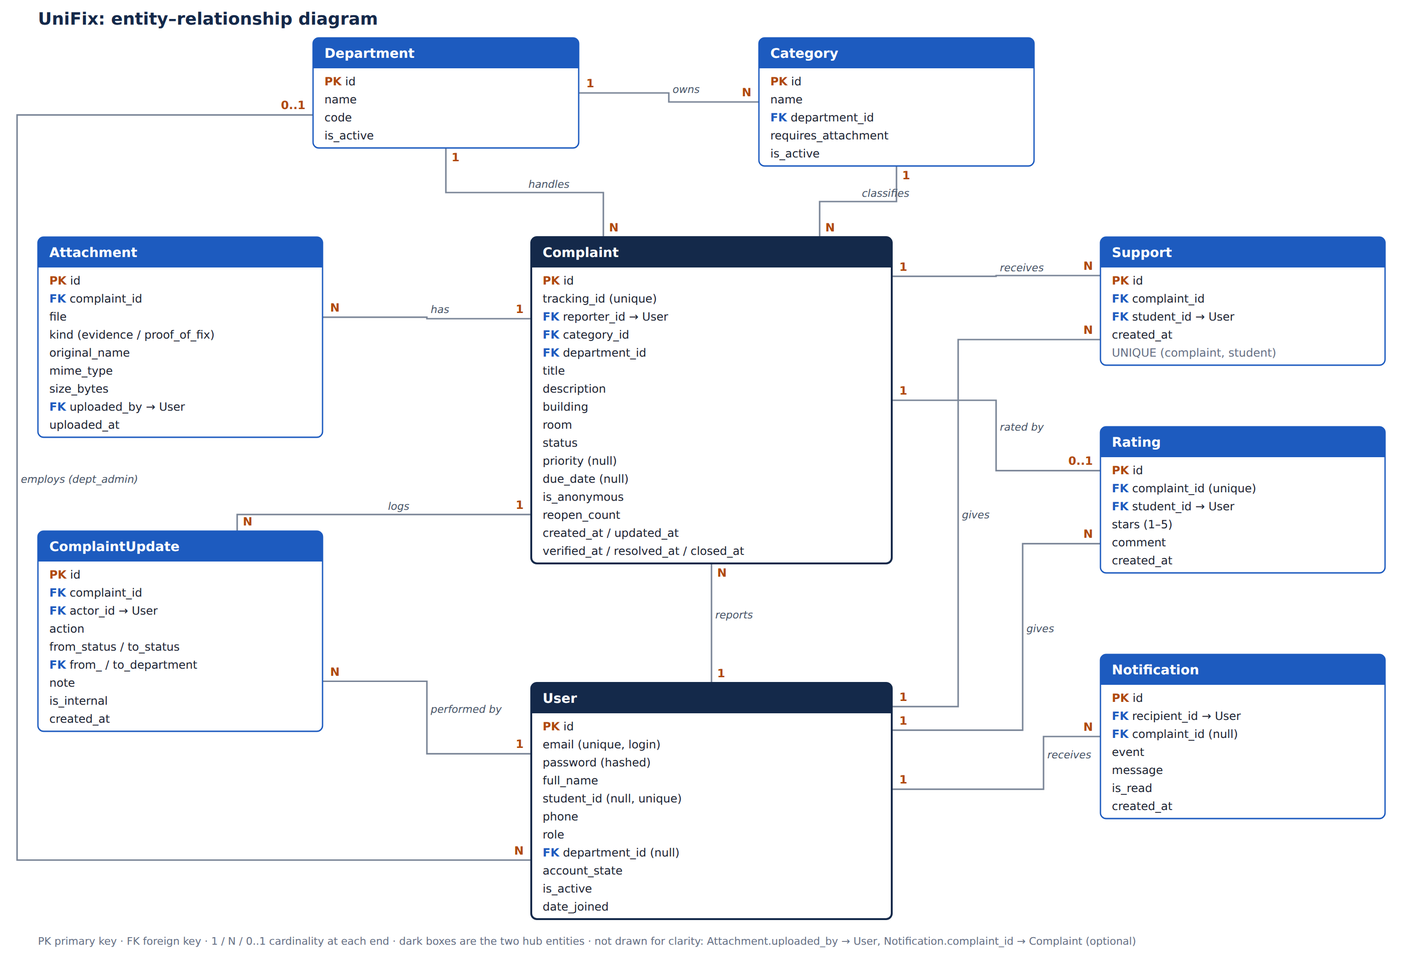
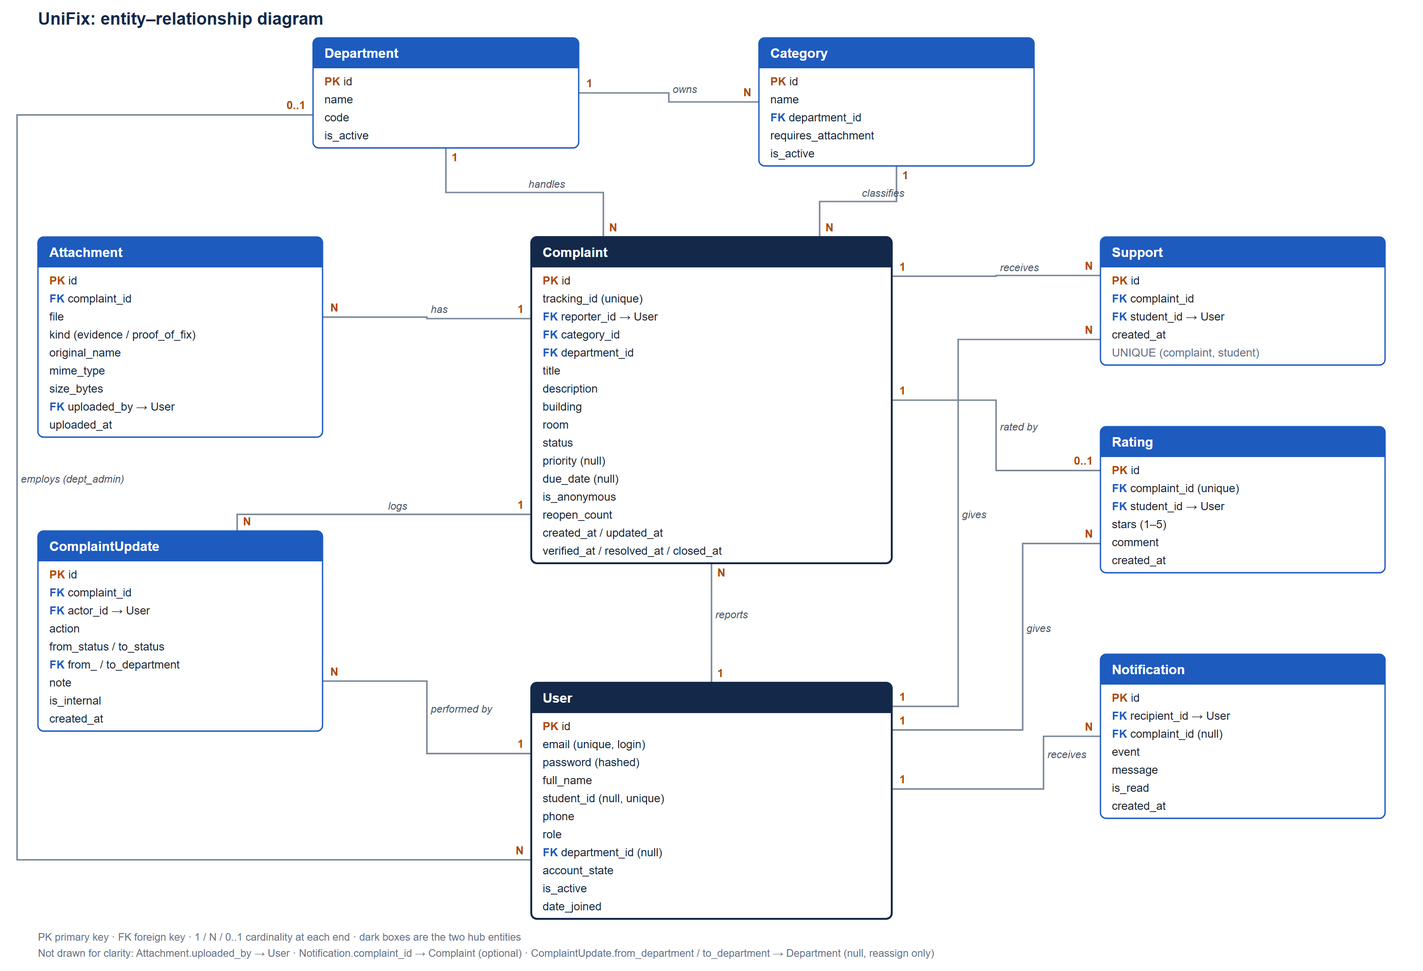
CR-09: Sprint 1 pre-build doc fixes
Applies the answers from the pre-build documentation review (FB-09),
logged as I-17 to I-30 in docs/09:
- C-15 Profile moved to Sprint 1, C-10 Withdraw to Sprint 3 (01, 09 V-13)
- User: username/first/last removed with custom UserManager; student_id
  stored as NULL when empty; super_admin gets is_staff/is_superuser;
  AllowAllUsersModelBackend for the "Account inactive" message (02, 05)
- Names added: accounts/permissions.py, seed_demo command path,
  template partials (05 §2, 04 layout)
- Full CSS token and class list in 05 §5-6; 00 no longer says the
  mockup CSS is reused as-is
- Super Admin sidebar gets Students; S-03 search includes room (04)
- room stores the label only; building labels; tracking ID from pk (05)
- ER footnote names the undrawn from/to_department FKs (06, diagrams)
- Version tag scheme v0.2-sprint1 ... v1.0 (07, 08)

diff --git a/docs/05_data_dictionary.md b/docs/05_data_dictionary.md
@@ -21,11 +21,15 @@ Source of truth for names. Code, templates and diagrams must match exactly.
 ```
 unifix/                 Django project settings and root urls
 accounts/               User model, login, register, profile, user records
+accounts/permissions.py Role mixins and decorators (the one place for permission checks)
 complaints/             Models: Department, Category, Complaint, Attachment, ComplaintUpdate, Support, Rating;
                         student-facing views (URL namespace `student`)
+complaints/management/commands/seed_demo.py
+                        Demo data command (`python manage.py seed_demo`)
 notifications/          Notification model and list view
 console/                Admin-side views (dashboard, queue, actions, students, users, reports)
 templates/              base.html, partials/, accounts/, student/, console/, notifications/
+templates/partials/     topbar.html, sidebar.html, messages.html, status_badge.html
 static/css/unifix.css   Single stylesheet (design tokens at the top)
 static/js/unifix.js     Small helpers only (form toggles, file previews, charts)
 media/                  Uploaded files (not committed to Git)
@@ -36,18 +40,21 @@ docs/                   These documents
 
 ### accounts.User (extends Django `AbstractUser`)
 
-Login uses email: `USERNAME_FIELD = "email"`; the inherited `username`, `first_name` and `last_name` are not used (`full_name` replaces them).
+Login uses email: `USERNAME_FIELD = "email"`, `REQUIRED_FIELDS = ["full_name"]`. The inherited `username`, `first_name` and `last_name` are removed (set to `None` on the model; `full_name` replaces them), so a custom `UserManager` creates users by email.
+
+Authentication uses Django's `AllowAllUsersModelBackend`; the login form's `confirm_login_allowed()` rejects suspended and deleted accounts with "Account inactive" (VR-11).
 
 | Field | Type | Rules |
 |---|---|---|
 | `email` | EmailField | Unique; login identifier; students must use `@northsouth.edu` |
 | `full_name` | CharField(120) | Required |
-| `student_id` | CharField(20) | Students only; unique when present |
+| `student_id` | CharField(20), null | Students only; unique when present; stored as NULL (not "") when empty (`null=True, blank=True, unique=True`) |
 | `phone` | CharField(20) | Optional |
 | `role` | CharField choices | `student`, `dept_admin`, `super_admin` |
 | `department` | FK → Department, null | Required for `dept_admin`; empty otherwise |
 | `account_state` | CharField choices | `active`, `suspended`, `deleted`; default `active` |
 | `is_active` | Boolean (built-in) | `False` when `account_state` is not `active` |
+| `is_staff`, `is_superuser` | Boolean (built-in) | `True` only for `super_admin` (Django admin access, C-16) |
 | `date_joined` | DateTime (built-in) | Auto |
 
 Methods: `is_student()`, `is_dept_admin()`, `is_super_admin()`, `can_view_complaint(complaint)`, `suspend()`, `reactivate()`, `soft_delete()`.
@@ -73,14 +80,14 @@ Methods: `is_student()`, `is_dept_admin()`, `is_super_admin()`, `can_view_compla
 
 | Field | Type | Rules |
 |---|---|---|
-| `tracking_id` | CharField(12) | Unique, generated `UF-0001` |
+| `tracking_id` | CharField(12) | Unique; `UF-` + primary key zero-padded to 4 digits (`UF-0001`) |
 | `reporter` | FK → User | Student who submitted |
 | `category` | FK → Category | |
 | `department` | FK → Department | Copied from category; changed only by reassign |
 | `title` | CharField(120) | Required |
 | `description` | TextField | Required |
-| `building` | CharField choices | `nac`, `sac`, `library`, `admin_building`, `plaza`, `other` |
-| `room` | CharField(30) | Optional (e.g. NAC 512) |
+| `building` | CharField choices | `nac` (NAC), `sac` (SAC), `library` (Library), `admin_building` (Admin Building), `plaza` (Plaza), `other` (Other) |
+| `room` | CharField(30) | Optional; room label only, without the building (e.g. `512`, `L3`). Pages show building label + room ("NAC 512"); reports group locations by building + room. |
 | `status` | CharField choices | See `03_workflow.md` §1 |
 | `priority` | CharField choices, null | `low`, `medium`, `high`; set on verify |
 | `due_date` | DateField, null | Set on verify; must be after today |
@@ -211,6 +218,20 @@ The Django admin panel stays at `/django-admin/` to avoid confusion with the con
 | withdrawn | `badge-withdrawn` | Grey outline |
 | overdue (flag) | `flag-overdue` | Red text |
 
+Priority text: `pri-high` (red), `pri-medium` (amber), `pri-low` (muted grey).
+
+**Component classes** (in `unifix.css`; mockup HTML uses shorter draft names):
+
+| Component | Classes |
+|---|---|
+| Layout | `topbar`, `sidebar`, `sidebar-label`, `sidebar-link`, `sidebar-link-active`, `main`, `breadcrumb`, `page-title`, `page-sub`, `row` |
+| Top bar | `brand`, `topbar-search`, `bell`, `bell-count`, `user-menu`, `avatar` |
+| Cards | `card`, `card-stat`, `stat-label`, `stat-value`, `stat-note` |
+| Buttons | `btn`, `btn-primary`, `btn-danger`, `btn-sm` (disabled buttons use the `disabled` attribute) |
+| Forms | `form-field`, `form-help`, `form-error` |
+| Messages | `alert-info`, `alert-success`, `alert-warning`, `alert-error` (Django message levels) |
+| Text | `text-muted`, `text-mono` |
+
 ## 6. Design Tokens (top of `unifix.css`)
 
 | Token | Value | Use |
@@ -219,9 +240,15 @@ The Django admin panel stays at `/django-admin/` to avoid confusion with the con
 | `--navy-2` | `#1d3a66` | Active sidebar item |
 | `--bg` | `#eef2f7` | Page background |
 | `--surface` | `#ffffff` | Cards, tables, forms |
+| `--border` | `#e1e4ea` | Card, table and input borders |
+| `--text` | `#1c2433` | Body text |
+| `--muted` | `#667085` | Secondary text, help text |
 | `--primary` | `#1d5bbf` | Primary buttons, links |
+| `--primary-soft` | `#e3ecfb` | Selected and info backgrounds |
 | `--danger` | `#c0352b` | Reject, reopen, overdue |
-| Card accents | blue, teal, amber, purple, green | Top border of dashboard stat cards |
+| `--ok` | `#1a7f4b` | Success messages, closed |
+| `--warn` | `#b26a00` | Warnings, medium priority |
+| Card accents | blue `#1d5bbf`, teal `#0d8a7a`, amber `#b26a00`, purple `#6b4fd8`, green `#1a7f4b` | Top border of dashboard stat cards |
 
 No animations, gradients or shadows beyond a 1 px card shadow.
 
@@ -235,3 +262,5 @@ No animations, gradients or shadows beyond a 1 px card shadow.
 | Security (`SEC`) | Lost access card (no), Safety hazard (yes) |
 
 Demo accounts: one Super Admin, one Dept Admin per department, about 10 students, and complaints in every status (including overdue and reopened examples).
+
+`seed_demo` grows by sprint: Sprint 1 seeds departments, categories and accounts; complaints are added in Sprints 2–3 as their models and actions are built.

diff --git a/docs/09_verification_report.md b/docs/09_verification_report.md
@@ -18,7 +18,7 @@ Purpose: confirm that requirements, workflow, screens, data dictionary, diagrams
 | V-10 | Mockups only show data and buttons allowed by the rules | Manual | Pass (after removing "View details" from S-02) |
 | V-11 | Every core feature traces to screens, rules, use cases and model elements | Traceability matrix (§3) | Pass |
 | V-12 | Workflow diagram, transitions table, state diagram and status list agree | Manual | Pass |
-| V-13 | Plan sprints cover every core feature | Manual | Pass (after adding C-18 to Sprint 4) |
+| V-13 | Plan sprints cover every core feature | Manual | Pass (after adding C-18 to Sprint 4, and C-15 to Sprint 1 and C-10 to Sprint 3 in CR-09) |
 
 ## 2. Issues Found and Fixed
 
@@ -40,6 +40,20 @@ Purpose: confirm that requirements, workflow, screens, data dictionary, diagrams
 | I-14 | C-18 (search) not assigned to any sprint or person | Low | Added to Sprint 4 and the work split | 01 |
 | I-15 | No seed data defined, though mockups and demo rely on it | Low | Seed departments, categories and demo accounts defined | 05 |
 | I-16 | Example ID `CR-06` in the GitHub section clashed with real CR numbering | Low | Changed to `CR-xx` | 08 |
+| I-17 | C-10 Withdraw and C-15 Profile had owners but no sprint; V-13 had been marked Pass | Medium | C-15 added to Sprint 1, C-10 to Sprint 3; V-13 note updated | 01, 09 |
+| I-18 | `seed_demo` was described as seeding complaints, which do not exist until Sprint 2 | Low | Seed grows by sprint: Sprint 1 departments, categories, accounts | 05 |
+| I-19 | Unclear whether inherited `username`, `first_name`, `last_name` are removed or left unused | Medium | Removed; custom `UserManager`; `REQUIRED_FIELDS = ["full_name"]` | 05 |
+| I-20 | No names for the permission module, seed command or template partials | Medium | Added `accounts/permissions.py`, `seed_demo.py` path, `partials/topbar.html`, `sidebar.html`, `messages.html`, `status_badge.html` | 04, 05 |
+| I-21 | Nobody was given access to the Django admin panel needed for C-16 | Medium | Super Admin accounts get `is_staff` and `is_superuser`; permissions matrix row added | 02, 05 |
+| I-22 | `student_id` "unique when present" would clash on blank values for admins | Medium | Stored as NULL when empty (`null=True, blank=True, unique=True`), matching the ER diagram | 05 |
+| I-23 | Mockup CSS is fixed-size (not responsive), lacks `badge-withdrawn`, repeats `:root`, and uses tokens and classes not in `05` | Medium | `05` §5–6 list all tokens, priority and component classes; `00` no longer says the mockup CSS is reused as-is | 00, 05 |
+| I-24 | Super Admin could see all students on A-04 but had no sidebar link to it | Low | Students added to the Super Admin sidebar | 04 |
+| I-25 | S-03 searched by title or tracking ID, but the Search table also matched room | Low | S-03 searches tracking ID, title or room | 04 |
+| I-26 | `room` examples repeated the building ("NAC 512"), clashing with the separate `building` field and hotspot grouping | Low | `room` stores the label only (`512`, `L3`); pages show building + room; hotspots group by building + room; building labels defined | 05 |
+| I-27 | ER diagram did not mention the undrawn `ComplaintUpdate.from_department` / `to_department` relationship | Low | Added to the figure footnote and the `06` caption | 06, diagrams |
+| I-28 | VR-11 asks for an "Account inactive" message, but Django's default backend shows a generic login error | Low | `AllowAllUsersModelBackend` with the check in `confirm_login_allowed()` | 05 |
+| I-29 | The notification bell's unread count depends on notifications, which are built in Sprint 3 | Low | Bell shown without a count until Sprint 3 | 04 |
+| I-30 | Tag scheme in `08` (`v0.1-iter1`) differed from the real tag (`v0.1.3-planning`); tracking ID generation unspecified | Low | Tag scheme defined (planning `v0.1.x`, sprints `v0.2-sprint1` … , final `v1.0`); tracking ID = `UF-` + zero-padded pk | 05, 07, 08 |
 
 ## 3. Traceability Matrix
 
@@ -67,7 +81,7 @@ Purpose: confirm that requirements, workflow, screens, data dictionary, diagrams
 ## 4. Remaining Open Items (decided later, not inconsistencies)
 
 - Keep-in-view items in `07_decision_log.md` (Super Admin fallback, soft delete, withdraw, rating, charts, search extension, header spacing, supporter notifications, due date after reopen).
-- 14 of 18 screens still need mockups (CR-03).
+- 14 of 18 screens still need mockups (CR-03). Existing mockups predate CR-09: the S-01/S-02 search placeholder omits room, the SA-01 sidebar has no Students link, and class names are draft names; they are refreshed when the remaining mockups are drawn.
 - Sprint dates depend on semester deadlines.
 - The submitted proposal (v2 PDF) predates these decisions and is superseded by this documentation set.
 - Course diagrams (use case, class, ER, sequence, activity) still to be drawn from `06`.
@@ -76,4 +90,4 @@ Purpose: confirm that requirements, workflow, screens, data dictionary, diagrams
 
 1. Run the automated checks (V-01 to V-05) with the verification script kept alongside these docs.
 2. Walk through the manual checks V-06 to V-13 for any section that changed.
-3. Log new issues here as I-17, I-18, … and link fixes to a CR in `08_iteration_log.md`.
+3. Log new issues here as I-31, I-32, … and link fixes to a CR in `08_iteration_log.md`.

diff --git a/docs/08_iteration_log.md b/docs/08_iteration_log.md
@@ -8,7 +8,7 @@ Tracks feedback and the changes it causes, iteration by iteration, so each phase
 2. **Each accepted change becomes a change request** (`CR-xx`) linked to the feedback and to the IDs it affects (C-xx, VR-xx, S-xx, UC-xx, model or field names).
 3. **Impact is checked before work starts.** If a CR touches a foundation file (03 or 05), it is flagged so the diagrams in 06 are updated too.
 4. **Status flow for each CR:** Proposed → Accepted / Deferred / Rejected → Done.
-5. **Each iteration ends with a version tag** in Git (`v0.1-iter1`, `v0.2-iter2`, …) and a summary of what changed.
+5. **Each iteration ends with a version tag** in Git and a summary of what changed. Planning iterations: `v0.1.x` (e.g. `v0.1.3-planning`). Code sprints: `v0.2-sprint1`, `v0.3-sprint2`, `v0.4-sprint3`, `v0.5-sprint4`. Final release: `v1.0`.
 
 ## 2. Versions
 
@@ -19,6 +19,12 @@ Tracks feedback and the changes it causes, iteration by iteration, so each phase
 | v0.1.1 | Planning v1.1 | Oct 2026 | Search scope, system workflow, palette, this log |
 | v0.1.2 | Planning v1.2 | Oct 2026 | Header spacing; full consistency verification and fixes |
 | v0.1.3 | Planning v1.3 | Oct 2026 | ER diagram drawn for database planning |
+| v0.1.4 | Planning v1.4 | Oct 2026 | Sprint 1 pre-build doc fixes (CR-09) |
+| v0.2-sprint1 | Sprint 1 | planned | Setup, accounts, roles, login/register, profile, Django admin, seed |
+| v0.3-sprint2 | Sprint 2 | planned | Complaint submission and student pages |
+| v0.4-sprint3 | Sprint 3 | planned | Admin console and full lifecycle |
+| v0.5-sprint4 | Sprint 4 | planned | Remaining core features |
+| v1.0 | Final release | planned | Tested, documented, demo-ready |
 
 ## 3. Feedback Register
 
@@ -32,6 +38,7 @@ Tracks feedback and the changes it causes, iteration by iteration, so each phase
 | FB-06 | Oct 2026 | Team | Top area of screens feels cluttered | CR-06 |
 | FB-07 | Oct 2026 | Team | Verify all documents are aligned before building | CR-07 |
 | FB-08 | Oct 2026 | Team | Plan the database visually before creating demo data | CR-08 |
+| FB-09 | Oct 2026 | Claude Code review | Pre-build review found gaps: sprint coverage, User model details, missing file names, CSS not reusable, sidebar, search fields, room format, ER footnote, tag scheme | CR-09 |
 
 ## 4. Change Requests
 
@@ -45,6 +52,7 @@ Tracks feedback and the changes it causes, iteration by iteration, so each phase
 | CR-06 | FB-06 | More spacing in top bar and page header | `unifix.css`, mockups | Done (keep in view) |
 | CR-07 | FB-07 | Consistency fixes from the verification pass | 01–06, mockups; see `09_verification_report.md` | Done (planning) |
 | CR-08 | FB-08 | ER diagram with keys and cardinalities, matching `05` §3 | `06` §3, `diagrams/er_diagram.*` | Done (planning) |
+| CR-09 | FB-09 | Sprint 1 pre-build doc fixes (`09` I-17 to I-30) | C-10, C-15, C-16, C-18, VR-11, S-03, `User`, `Complaint.room`, `Complaint.tracking_id`, `05` §2, §5–7, `06` §3, `diagrams/er_diagram.*` | Done (planning) |
 
 ## 5. Iteration Template
 
@@ -65,4 +73,4 @@ Retrospective: keep … / change …
 
 - One GitHub Issue per CR, titled `CR-xx: …`, labelled `feedback`, `foundation` (if 03/05 change) and the sprint.
 - Pull requests reference the CR (`Closes #12, CR-06`).
-- Tag each iteration (`git tag v0.2-iter2`) so any earlier version can be shown or restored.
+- Tag each iteration (`git tag v0.2-sprint1`) so any earlier version can be shown or restored.

diff --git a/docs/01_project_plan.md b/docs/01_project_plan.md
@@ -16,9 +16,9 @@ The foundation (workflow states and data dictionary) is fixed during the design 
 | P0. Proposal | Topic, scope, initial UI concepts | Approved proposal (done) |
 | P1. Requirements | Actors, features, rules, screen inventory | `02_requirements.md`, `04_screens.md`, SRS |
 | P2. Design | Use case, class, ER, sequence, activity, state diagrams; mockups; data dictionary | `05`, `06`, diagram files, mockups |
-| Sprint 1 | Project setup, custom User model, roles, login/register, departments and categories via Django admin, seed data | Users can log in by role |
+| Sprint 1 | Project setup, custom User model, roles, login/register, profile and password change (C-15), departments and categories via Django admin, seed data (departments, categories, users) | Users can log in by role |
 | Sprint 2 | Complaint submission with media, duplicate check and "Me too", routing, student pages (home, list, detail) | End-to-end student submission |
-| Sprint 3 | Admin console: queue, complaint detail with 5 action buttons, verification with due date, resolve with proof photo, history, notifications | Full complaint lifecycle |
+| Sprint 3 | Admin console: queue, complaint detail with 5 action buttons, verification with due date, resolve with proof photo, withdraw (C-10), history, notifications | Full complaint lifecycle |
 | Sprint 4 | Confirm/reopen, rating, student records, Super Admin (users, reassign, reports), dashboards, search | All core features |
 | P3. Testing and finalization | Test cases, bug fixes, demo script, final report, optional features if time allows | Final report and demo |
 

diff --git a/docs/04_screens.md b/docs/04_screens.md
@@ -2,13 +2,13 @@
 
 18 screens. Each lists what it shows, its buttons, and which data it reads (R) or writes (W). URL and template names follow `05_data_dictionary.md`.
 
-**Layout:** every signed-in page uses `base.html`: a top bar (logo, notification bell with unread count, user menu) and a role-specific left sidebar.
+**Layout:** every signed-in page uses `base.html` (with `partials/topbar.html`, `partials/sidebar.html`, `partials/messages.html`): a top bar (logo, search, notification bell with unread count, user menu) and a role-specific left sidebar. Until notifications are built (Sprint 3, C-11) the bell is shown without a count.
 
 | Sidebar | Links |
 |---|---|
 | Student | Home · New complaint · My complaints · Notifications · Profile |
 | Dept Admin | Dashboard · Complaint queue · Students · Notifications · Profile |
-| Super Admin | Dashboard · Complaint queue (all) · Reports · Users · Notifications · Profile |
+| Super Admin | Dashboard · Complaint queue (all) · Students · Reports · Users · Notifications · Profile |
 
 ## Search (top bar, every signed-in page)
 
@@ -62,7 +62,7 @@ Search reuses the existing list pages with a `?q=` parameter instead of adding n
 ### S-03 My complaints
 `student:complaint_list` · `student/complaint_list.html`
 
-- Shows: table of own complaints and supported complaints; filters by status; search by title or tracking ID.
+- Shows: table of own complaints and supported complaints; filters by status; search by tracking ID, title or room.
 - Buttons: row → S-04.
 - R: Complaint, Support.
 

diff --git a/docs/07_decision_log.md b/docs/07_decision_log.md
@@ -18,6 +18,9 @@
 | Oct 2026 | Complaint stores its own `department` | Allows Super Admin reassignment |
 | Oct 2026 | Supported complaints shown in a limited view (VR-01) | Privacy of the reporter; confirmed by team |
 | Oct 2026 | Reopened complaints keep the original due date | Simple; overdue stays visible; confirmed by team |
+| Oct 2026 | Super Admin accounts get Django admin access (`is_staff`, `is_superuser`) | One place to manage departments and categories (C-16) |
+| Oct 2026 | `room` stores the room label only; building comes from `building` | Avoids repeating the building; clean hotspot grouping |
+| Oct 2026 | Version tags: planning `v0.1.x`, sprints `v0.2-sprint1` … `v0.5-sprint4`, final `v1.0` | Tags line up with sprints |
 
 ## Keep in View
 
@@ -43,3 +46,4 @@ Instructor feedback and iteration changes are tracked in `08_iteration_log.md`.
 | Oct 2026 | v1.1: search scope (C-18, VR-14), system workflow diagram, colour palette, iteration log | 02, 03, 04, 05, 08 |
 | Oct 2026 | v1.2: header spacing; verification fixes (see `09_verification_report.md`) | 01–08 |
 | Oct 2026 | v1.3: ER diagram; supported-complaint limited view and reopen due-date behaviour confirmed by team | 06, 07 |
+| Oct 2026 | v1.4 (CR-09): Sprint 1 pre-build fixes from the Claude Code review (I-17 to I-30): sprint coverage, User model details, file and partial names, CSS tokens and classes, Super Admin sidebar, search fields, room format, ER footnote, version tags | 00, 01, 02, 04, 05, 06, 07, 08, 09, `diagrams/er_diagram.*` |

diff --git a/docs/02_requirements.md b/docs/02_requirements.md
@@ -22,6 +22,7 @@ Departments and categories are configured through Django's built-in admin panel 
 | View student records and complaint history | – | ✓ (view only) | ✓ |
 | Edit, suspend, delete (soft) user accounts | – | – | ✓ |
 | Reports dashboard (all departments) | – | – | ✓ |
+| Django admin panel (departments, categories) | – | – | ✓ |
 | Edit own profile, change password | ✓ | ✓ | ✓ |
 
 ## 3. Core Features
@@ -43,7 +44,7 @@ Departments and categories are configured through Django's built-in admin panel 
 | C-13 | Super Admin complaint control | Acts on any complaint and reassigns complaints between departments with a reason. |
 | C-14 | Dashboards and reports | Student home, Dept Admin dashboard and Super Admin reports (see section 4). |
 | C-15 | Profile | Edit name and phone; change password. |
-| C-16 | Setup | Departments and categories managed in the Django admin panel. |
+| C-16 | Setup | Departments and categories managed in the Django admin panel (Super Admin accounts have `is_staff` and `is_superuser`). |
 | C-17 | Student rating | After closing, the student rates the resolution 1–5 stars with an optional comment, once per complaint. *(Keep in view)* |
 | C-18 | Search | Role-scoped search bar in the top bar (see `04_screens.md` §Search). An exact tracking ID opens the complaint directly. |
 

diff --git a/docs/06_diagram_blueprint.md b/docs/06_diagram_blueprint.md
@@ -58,7 +58,7 @@ Enumerations to draw: Role, AccountState, Status, Priority, Building, Action (in
 
 ![UniFix ER diagram](diagrams/er_diagram.png)
 
-*Figure: entities, keys and cardinalities from `05_data_dictionary.md`. Editable source: `diagrams/er_diagram.svg`. The Mermaid source below is a text version of the same relationships.*
+*Figure: entities, keys and cardinalities from `05_data_dictionary.md`. Editable source: `diagrams/er_diagram.svg`. Foreign keys listed in the boxes but not drawn as lines (for clarity) are named in the figure's footnote: `Attachment.uploaded_by`, `Notification.complaint`, `ComplaintUpdate.from_department` / `to_department`. The Mermaid source below is a text version of the drawn relationships.*
 
 ### ER Diagram Source (Mermaid)
 

diff --git a/docs/00_README.md b/docs/00_README.md
@@ -31,7 +31,7 @@ Team: Sami Mohammad Abdullah, Ahnaf Tazwar Unmesh.
 
 ## Mockups
 
-`mockups/` contains the sample screens (PNG) and their HTML sources. `mockups/unifix.css` is the draft design system (colours, badges, buttons, cards, tables) and can be reused as `static/css/unifix.css` when building.
+`mockups/` contains the sample screens (PNG) and their HTML sources. `mockups/unifix.css` is the draft stylesheet used only to render the mockups on a fixed 1440 × 900 canvas; it is not responsive and is not reused as-is. The app's `static/css/unifix.css` is ported from it (responsive, one `:root` block, all status badges), using the tokens and classes listed in `05_data_dictionary.md` §5–6.
 
 ## Verification
 

diff --git a/CHANGELOG.md b/CHANGELOG.md
@@ -3,6 +3,8 @@
 Format: [Keep a Changelog](https://keepachangelog.com). Versions match Git tags. Reasons for changes are in `docs/08_iteration_log.md`.
 
 ## [Unreleased]
+### Changed
+- Docs v0.1.4 (CR-09): Sprint 1 pre-build fixes from a documentation review: C-15 moved to Sprint 1 and C-10 to Sprint 3; User model details (email-only login, `student_id` NULL when empty, Django admin access for Super Admin, "Account inactive" message); names for the permission module, seed command and template partials; full CSS token and class list; Students link for Super Admin; room-only `room` field; ER diagram footnote; version tag scheme.
 
 ## [0.1.3-planning] - 2026-10
 ### Added

diff --git a/README.md b/README.md
@@ -5,7 +5,7 @@ Students report campus issues with photo, video or PDF evidence; complaints are 
 
 **Team:** Sami Mohammad Abdullah, Ahnaf Tazwar Unmesh
 **Stack:** Django, Django templates, vanilla CSS/JS, SQLite (development)
-**Status:** planning complete (docs v0.1.3); Sprint 1 next
+**Status:** planning complete (docs v0.1.4); Sprint 1 in progress
 
 ## Documentation
 
